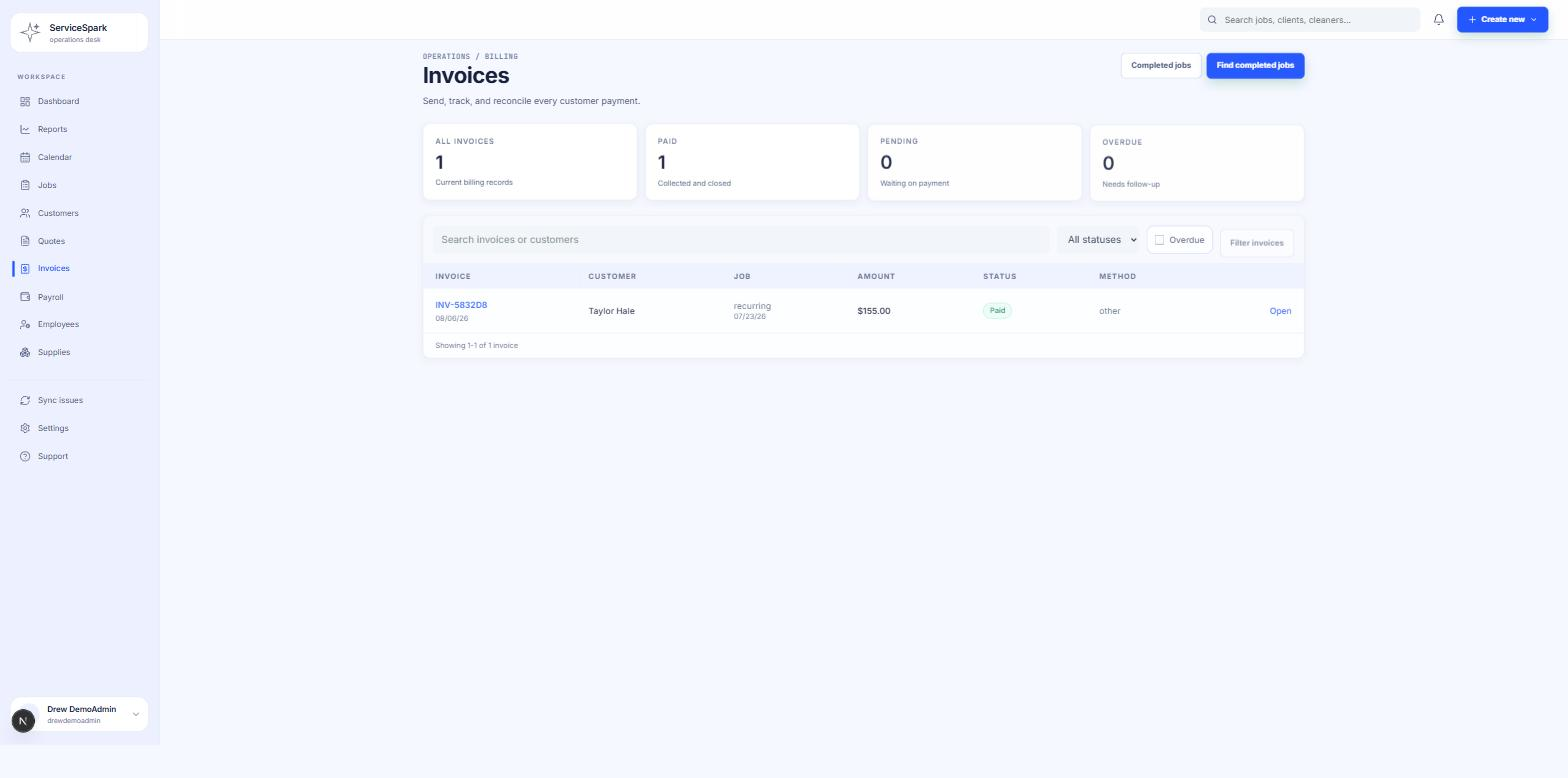
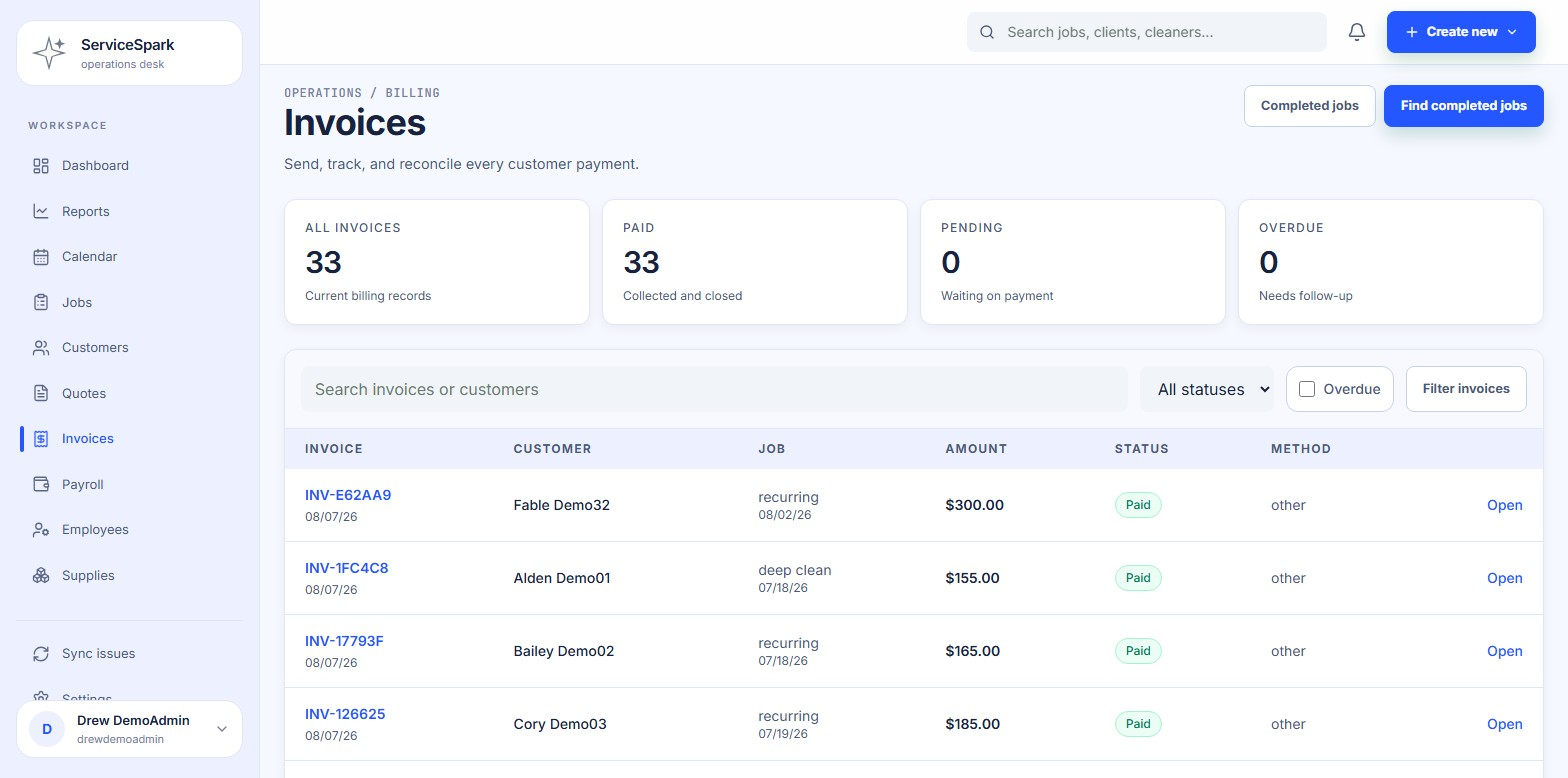
Enrich Demo Cleaning Co. with realistic volume, refresh marketing screenshots
Client feedback: the marketing screenshots looked sparse (14 customers,
1 paid invoice) and didn't read as an established business. Added an
additive, one-time seed script (dry-run by default, --apply required)
that adds 46 more fictional customers, 32 completed jobs with paid
invoices ($8,650 additional paid revenue), 7 more quotes, and 3 more
fictional cleaners to the existing safe "Demo Cleaning Co." tenant only.

Applied to the hosted DB after dry-run numbers were approved. Verified
directly against the database afterward: Demo Cleaning Co. now has 60
customers / 33 paid invoices ($8,650) / 9 quotes / 5 employees; the
real Simply Maid company is completely unchanged. Re-captured all six
public/marketing screenshots against the richer data via the existing
magic-link admin-session bypass, at each image's original dimensions.

diff --git a/work/enrich-demo-company-data.ts b/work/enrich-demo-company-data.ts
@@ -1,0 +1,159 @@
+/**
+ * One-time, additive enrichment for the isolated fictional demo tenant.
+ *
+ * Usage:
+ *   npx tsx work/enrich-demo-company-data.ts          (dry run; no writes)
+ *   npx tsx work/enrich-demo-company-data.ts --apply  (writes only demo-tenant rows)
+ */
+import { config } from "dotenv";
+import { randomUUID } from "crypto";
+import postgres from "postgres";
+import { createClient } from "@supabase/supabase-js";
+import { generateTemporaryPassword, slugifyUsername, usernameToEmail } from "../src/lib/auth/username";
+
+config({ path: ".env.local" });
+
+const DEMO_COMPANY_NAME = "Demo Cleaning Co. — Fictional Training Tenant";
+const apply = process.argv.includes("--apply");
+const sql = postgres(process.env.DATABASE_URL!, { prepare: false });
+
+const isoDate = (offset: number) => {
+  const date = new Date();
+  date.setUTCHours(12, 0, 0, 0);
+  date.setUTCDate(date.getUTCDate() + offset);
+  return date.toISOString().slice(0, 10);
+};
+
+// Deliberately fictional names and the exact address convention used by seed-demo-company.ts.
+const customerSeed = [
+  ["Alden", "Demo01", "client"], ["Bailey", "Demo02", "client"], ["Cory", "Demo03", "client"],
+  ["Dakota", "Demo04", "client"], ["Elliot", "Demo05", "client"], ["Finley", "Demo06", "client"],
+  ["Gray", "Demo07", "client"], ["Harley", "Demo08", "client"], ["Indigo", "Demo09", "client"],
+  ["Jules", "Demo10", "client"], ["Keegan", "Demo11", "client"], ["Lake", "Demo12", "client"],
+  ["Marley", "Demo13", "client"], ["Nico", "Demo14", "client"], ["Oakley", "Demo15", "client"],
+  ["Peyton", "Demo16", "client"], ["Quincy", "Demo17", "client"], ["River", "Demo18", "client"],
+  ["Shiloh", "Demo19", "client"], ["Toby", "Demo20", "client"], ["Umber", "Demo21", "client"],
+  ["Vale", "Demo22", "client"], ["Winter", "Demo23", "client"], ["Xan", "Demo24", "client"],
+  ["Yael", "Demo25", "client"], ["Zuri", "Demo26", "client"], ["Arden", "Demo27", "client"],
+  ["Briar", "Demo28", "client"], ["Cedar", "Demo29", "client"], ["Dune", "Demo30", "client"],
+  ["Ember", "Demo31", "client"], ["Fable", "Demo32", "client"], ["Gale", "Demo33", "client"],
+  ["Haven", "Demo34", "client"], ["Isle", "Demo35", "client"], ["Juniper", "Demo36", "client"],
+  ["Kestrel", "Demo37", "lead"], ["Lark", "Demo38", "lead"], ["Meadow", "Demo39", "lead"],
+  ["Nova", "Demo40", "lead"], ["Opal", "Demo41", "quoted"], ["Prairie", "Demo42", "quoted"],
+  ["Reef", "Demo43", "quoted"], ["Sol", "Demo44", "first_clean_booked"], ["Tundra", "Demo45", "client"],
+  ["Vesper", "Demo46", "client"],
+] as const;
+
+const employeeSeed = [
+  { firstName: "Alex", lastName: "DemoCleaner", title: "Fictional Demo Cleaning Technician", payType: "commission_jth", hourlyRateCents: 2500 },
+  { firstName: "Bryn", lastName: "DemoCleaner", title: "Fictional Demo Cleaning Technician", payType: "commission_jth", hourlyRateCents: 2550 },
+  { firstName: "Cleo", lastName: "DemoCleaner", title: "Fictional Demo Cleaning Technician", payType: "office_hourly", hourlyRateCents: 2300 },
+] as const;
+
+const jobPrices = [14500, 16500, 18500, 21000, 23500, 26000, 28500, 31000, 34500, 38000, 19500, 22500, 27500, 29500, 32500, 36000, 15500, 17500, 20500, 24500, 26500, 30500, 33500, 39500, 21500, 25500, 29000, 32000, 35000, 18000, 24000, 30000] as const;
+const quotePlans = [
+  { customerIndex: 37, status: "sent", totalCents: 28500 },
+  { customerIndex: 38, status: "sent", totalCents: 24500 },
+  { customerIndex: 40, status: "viewed", totalCents: 31000 },
+  { customerIndex: 41, status: "accepted", totalCents: 26500 },
+  { customerIndex: 42, status: "accepted", totalCents: 34000 },
+  { customerIndex: 43, status: "accepted", totalCents: 22000 },
+  { customerIndex: 44, status: "draft", totalCents: 19500 },
+] as const;
+
+async function main() {
+  if (!process.env.DATABASE_URL) throw new Error("DATABASE_URL must be configured.");
+  if (apply && (!process.env.NEXT_PUBLIC_SUPABASE_URL || !process.env.SUPABASE_SERVICE_ROLE_KEY)) {
+    throw new Error("NEXT_PUBLIC_SUPABASE_URL and SUPABASE_SERVICE_ROLE_KEY must be configured for --apply.");
+  }
+
+  const [company] = await sql`select id from companies where name = ${DEMO_COMPANY_NAME} limit 1`;
+  if (!company) throw new Error(`Demo tenant \"${DEMO_COMPANY_NAME}\" was not found. No changes were made.`);
+  const [current] = await sql`
+    select
+      (select count(*)::int from customers where company_id = ${company.id}) as customers,
+      (select count(*)::int from invoices where company_id = ${company.id} and status = 'paid') as paid_invoices,
+      (select coalesce(sum(amount_paid_cents), 0)::int from invoices where company_id = ${company.id} and status = 'paid') as paid_invoice_cents,
+      (select count(*)::int from quotes where company_id = ${company.id}) as quotes,
+      (select count(*)::int from users where company_id = ${company.id}) as users,
+      (select count(*)::int from users where company_id = ${company.id} and role = 'employee') as employees,
+      (select count(*)::int from customers where company_id = ${company.id} and email like '%@fictional-demo.example') as prior_enrichment;
+  `;
+  if (current.prior_enrichment > 0) throw new Error("Refusing to run: this enrichment appears to have already been applied. No changes were made.");
+
+  const invoiceTotalCents = jobPrices.reduce((sum, price, index) => sum + price + (index % 5 === 0 ? 1000 : 0), 0);
+  console.log(`Mode: ${apply ? "APPLY (will write only to the demo tenant)" : "DRY RUN (no writes)"}`);
+  console.log(`Demo company id: ${company.id}`);
+  console.log(`Current → projected: customers ${current.customers} → ${current.customers + customerSeed.length}; paid invoices ${current.paid_invoices} → ${current.paid_invoices + jobPrices.length}; paid revenue $${(current.paid_invoice_cents / 100).toFixed(2)} → $${((current.paid_invoice_cents + invoiceTotalCents) / 100).toFixed(2)}; quotes ${current.quotes} → ${current.quotes + quotePlans.length}; employees ${current.employees} → ${current.employees + employeeSeed.length}; all team users ${current.users} → ${current.users + employeeSeed.length}.`);
+  console.log(`Would add: ${customerSeed.length} fictional customers (38 Active clients, 4 Leads, 3 Quoted, 1 First clean booked); ${jobPrices.length} completed jobs and paid invoices across ${new Set(jobPrices.map((_, index) => isoDate(-20 + Math.floor(index / 2)))).size} dates; ${quotePlans.length} quotes (2 sent, 1 viewed, 3 accepted, 1 draft); ${employeeSeed.length} fictional cleaners.`);
+  console.log(`Sample customers: ${customerSeed.slice(0, 3).map(([first, last], index) => `${first} ${last}, ${200 + index} Fictional Demo Lane, Sampleville`).join(" | ")}`);
+  console.log(`Sample paid invoices: ${jobPrices.slice(0, 3).map((price, index) => `${isoDate(-20 + Math.floor(index / 2))} $${((price + (index % 5 === 0 ? 1000 : 0)) / 100).toFixed(2)}`).join(" | ")}`);
+  if (!apply) {
+    await sql.end();
+    return;
+  }
+
+  const supabase = createClient(process.env.NEXT_PUBLIC_SUPABASE_URL!, process.env.SUPABASE_SERVICE_ROLE_KEY!);
+  const credentials = employeeSeed.map((employee) => {
+    const username = slugifyUsername(employee.firstName, employee.lastName);
+    return { ...employee, username, email: usernameToEmail(username), id: "", password: generateTemporaryPassword() };
+  });
+  const authIds: string[] = [];
+  try {
+    for (const account of credentials) {
+      const { data, error } = await supabase.auth.admin.createUser({ email: account.email, password: account.password, email_confirm: true });
+      if (error || !data.user) throw new Error(`Could not create auth account ${account.email}: ${error?.message ?? "unknown error"}`);
+      account.id = data.user.id;
+      authIds.push(data.user.id);
+    }
+
+    await sql.begin(async (tx) => {
+      const [guard] = await tx`select count(*)::int as prior_enrichment from customers where company_id = ${company.id} and email like '%@fictional-demo.example'`;
+      if (guard.prior_enrichment > 0) throw new Error("Refusing to apply: this enrichment appears to have already been applied.");
+      const employees = await tx`insert into users ${tx(credentials.map((account) => ({
+        id: account.id, company_id: company.id, role: "employee", is_field_staff: true, first_name: account.firstName, last_name: account.lastName,
+        email: account.email, title: account.title, hired_date: isoDate(-45), pay_type: account.payType, hourly_rate_cents: account.hourlyRateCents,
+        is_active: true, must_change_password: true,
+      })))} returning id`;
+      const customers = await tx`insert into customers ${tx(customerSeed.map(([firstName, lastName, status], index) => ({
+        company_id: company.id, first_name: firstName, last_name: lastName, email: `fictional.customer.${String(index + 1).padStart(2, "0")}@fictional-demo.example`, phone: `555-02${String(index + 1).padStart(2, "0")}`,
+        address_line1: `${200 + index} Fictional Demo Lane`, city: "Sampleville", state: "IL", zip: `000${String(index + 20).padStart(2, "0")}`, county: "Example County", subdivision: "Training Meadows",
+        home_details: JSON.stringify({ bedrooms: 2 + (index % 4), bathrooms: 1 + (index % 3), kitchens: 1, livingRooms: 1, offices: index % 2 }),
+        operational_notes: "Fictional training data only — no real home or customer.", general_notes: "Fictional demo record for public marketing screenshots.", tags: JSON.stringify(["demo-data"]),
+        text_messaging_allowed: false, status, client_type: "residential", recurrence: status === "client" ? ["weekly", "biweekly", "every4weeks", "monthly"][index % 4] : null, source: "Fictional demo marketing seed",
+      })))} returning id, first_name, last_name`;
+      const quotes = await tx`insert into quotes ${tx(quotePlans.map((plan, index) => ({
+        company_id: company.id, customer_id: customers[plan.customerIndex].id, status: plan.status, public_token: randomUUID(), requested_service_type: "deep_clean", room_counts: JSON.stringify([]), all_tier_pricing: JSON.stringify({}), total_cents: plan.totalCents,
+        notes_to_customer: "Fictional demo proposal for marketing screenshots.", valid_until: isoDate(14 + index), sent_at: plan.status === "draft" ? null : new Date(`${isoDate(-10 + index)}T15:00:00.000Z`),
+        viewed_at: plan.status === "viewed" || plan.status === "accepted" ? new Date(`${isoDate(-8 + index)}T15:00:00.000Z`) : null,
+        accepted_at: plan.status === "accepted" ? new Date(`${isoDate(-6 + index)}T15:00:00.000Z`) : null, accepted_service_type: plan.status === "accepted" ? "deep_clean" : null,
+        signature_name: plan.status === "accepted" ? `${customers[plan.customerIndex].first_name} ${customers[plan.customerIndex].last_name} (Fictional Demo)` : null,
+        signature_at: plan.status === "accepted" ? new Date(`${isoDate(-6 + index)}T15:00:00.000Z`) : null,
+      })))} `;
+      for (const [index, price] of jobPrices.entries()) {
+        const customer = customers[index];
+        const service = index % 4 === 0 ? "deep_clean" : index % 5 === 0 ? "move_out" : index % 3 === 0 ? "first_clean" : "recurring";
+        const scheduledDate = isoDate(-20 + Math.floor(index / 2));
+        const paidAt = new Date(`${scheduledDate}T${index % 2 ? "19:15:00" : "16:45:00"}.000Z`);
+        const [job] = await tx`insert into jobs (company_id, customer_id, type, status, scheduled_date, scheduled_start_time, estimated_duration_minutes, price_cents, add_on_ids, completion_notes, cleaner_notes, completed_at, payment_method_collected)
+          values (${company.id}, ${customer.id}, ${service}, 'completed', ${scheduledDate}, ${index % 2 ? "10:00:00" : "08:30:00"}, ${150 + (index % 4) * 30}, ${price}, '[]'::jsonb, 'Fictional demo clean completed successfully.', 'Fictional field note for marketing data.', ${paidAt}, 'not_collected') returning id`;
+        const lead = employees[index % employees.length];
+        await tx`insert into job_assignments (job_id, user_id, role) values (${job.id}, ${lead.id}, 'lead')`;
+        await tx`insert into invoices (company_id, customer_id, job_id, status, method, subtotal_cents, discount_cents, tip_cents, total_cents, amount_paid_cents, paid_at, payment_note)
+          values (${company.id}, ${customer.id}, ${job.id}, 'paid', 'other', ${price}, 0, ${index % 5 === 0 ? 1000 : 0}, ${price + (index % 5 === 0 ? 1000 : 0)}, ${price + (index % 5 === 0 ? 1000 : 0)}, ${paidAt}, 'Fictional demo payment — no real processor used.')`;
+      }
+      void quotes;
+    });
+  } catch (error) {
+    await Promise.all(authIds.map((id) => supabase.auth.admin.deleteUser(id).catch(() => undefined)));
+    throw error;
+  } finally {
+    await sql.end();
+  }
+  console.log("Applied enrichment to the isolated fictional demo tenant. Temporary passwords were generated but intentionally not printed.");
+}
+
+main().catch((error) => {
+  console.error(error);
+  process.exit(1);
+});
